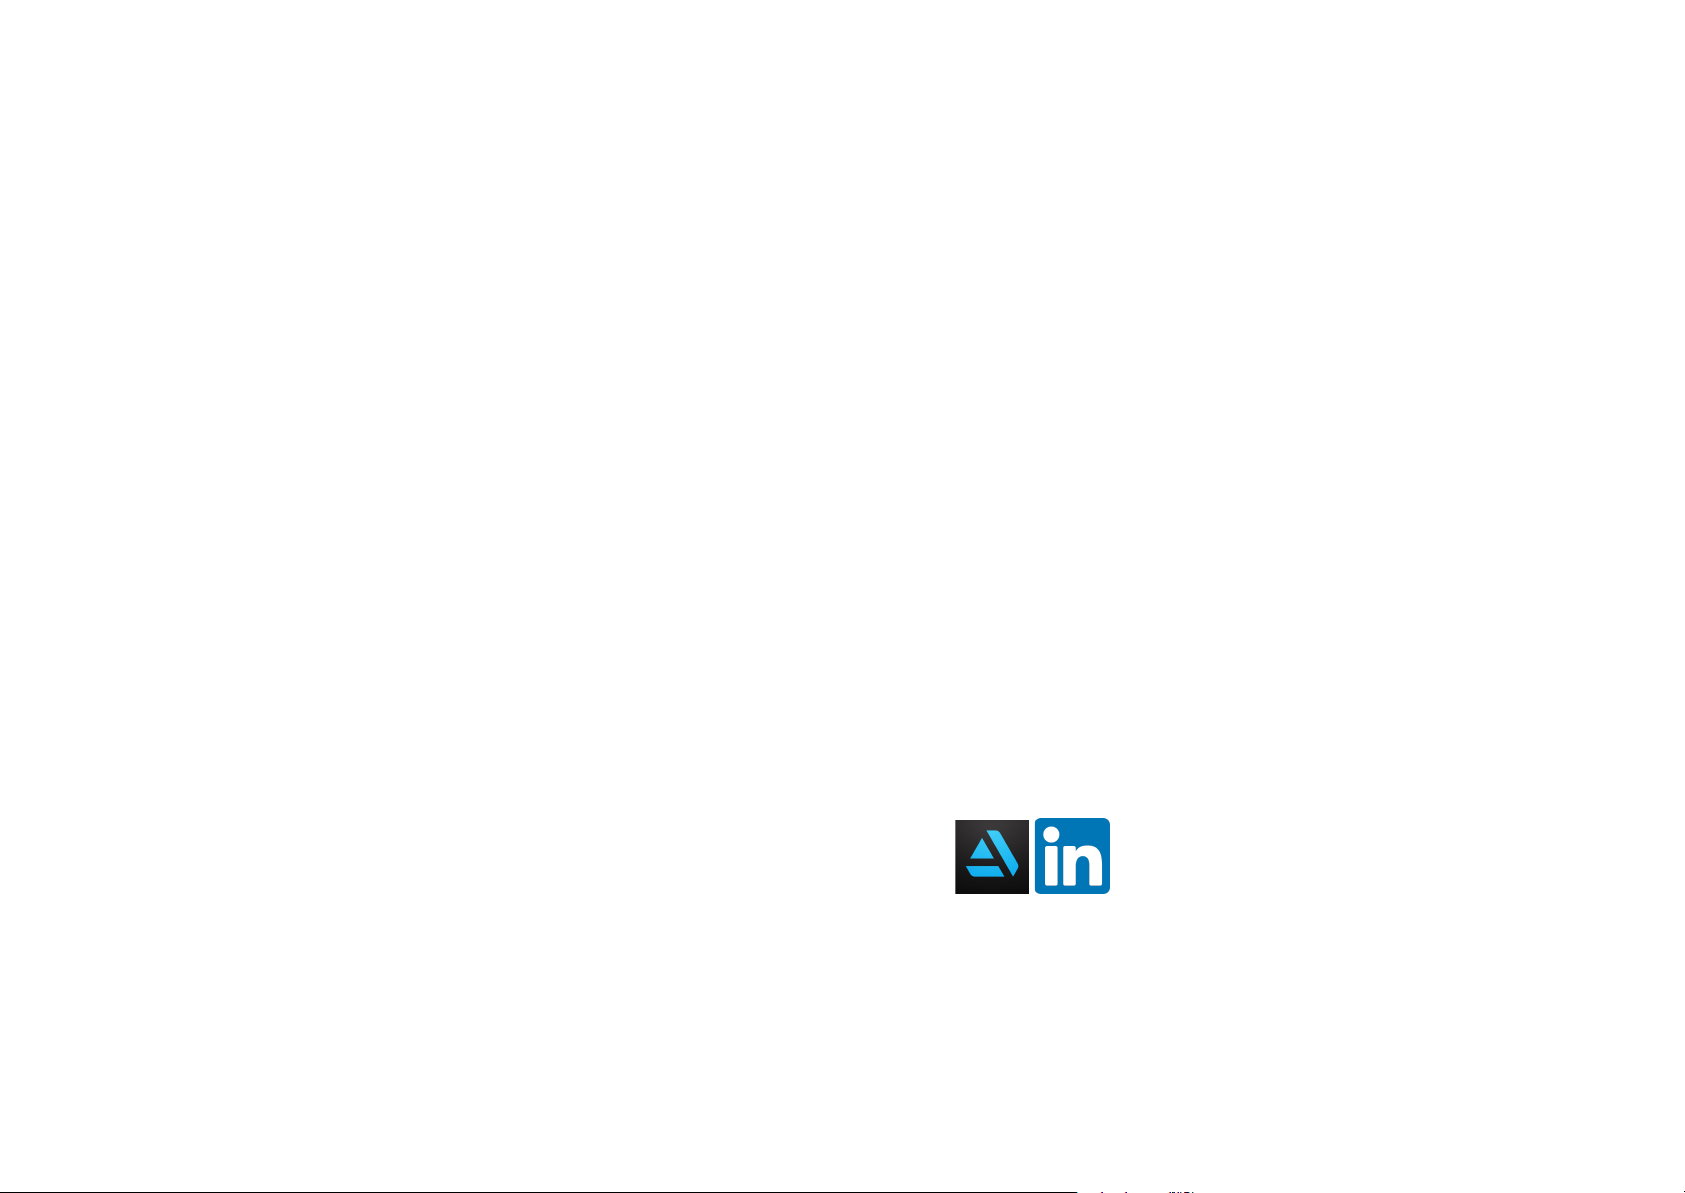
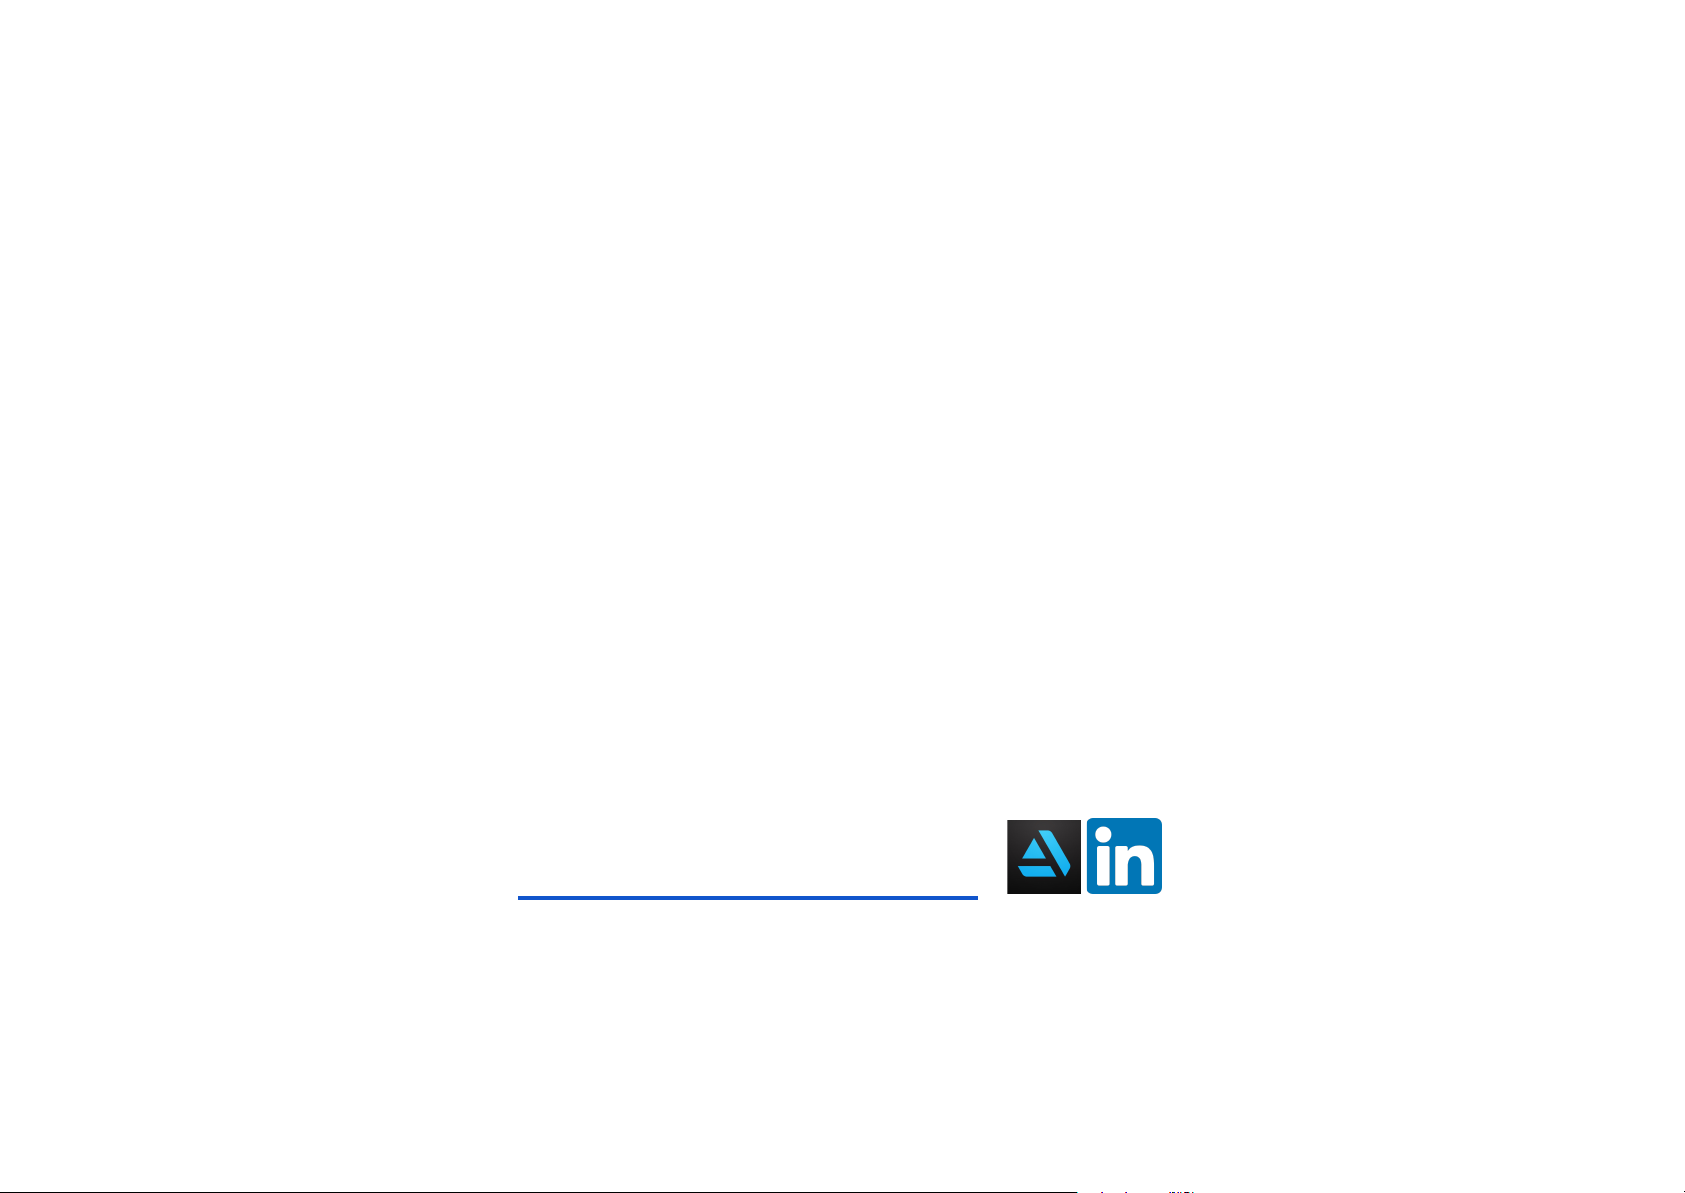
- updated the email address

Changed region(s): [[0.3086, 0.6823, 0.7098, 0.7754]]

diff --git a/index.html b/index.html
@@ -20,10 +20,10 @@
 <style type="text/css">
 .ff0{font-family:sans-serif;visibility:hidden;}
[4 lines of base64/hex data omitted]
-.m0{transform:matrix(0.250000,0.000000,0.000000,0.250000,0,0);-ms-transform:matrix(0.250000,0.000000,0.000000,0.250000,0,0);-webkit-transform:matrix(0.250000,0.000000,0.000000,0.250000,0,0);}
-.m1{transform:none;-ms-transform:none;-webkit-transform:none;}
+.m0{transform:matrix(0.375000,0.000000,0.000000,0.375000,0,0);-ms-transform:matrix(0.375000,0.000000,0.000000,0.375000,0,0);-webkit-transform:matrix(0.375000,0.000000,0.000000,0.375000,0,0);}
+.m1{transform:matrix(1.500000,0.000000,0.000000,1.500000,0,0);-ms-transform:matrix(1.500000,0.000000,0.000000,1.500000,0,0);-webkit-transform:matrix(1.500000,0.000000,0.000000,1.500000,0,0);}
 .v0{vertical-align:0.000000px;}
 .ls0{letter-spacing:0.000000px;}
 .sc_{text-shadow:none;}
@@ -42,46 +42,47 @@
 .fs4{font-size:123.999996px;}
 .fs0{font-size:152.000004px;}
 .fs1{font-size:156.000000px;}
-.y0{bottom:-0.500000px;}
-.y3{bottom:107.764280px;}
-.y9{bottom:149.113279px;}
-.y2{bottom:282.554689px;}
-.y4{bottom:285.985102px;}
-.y6{bottom:295.242672px;}
-.y5{bottom:304.498532px;}
-.y1{bottom:319.119997px;}
-.y8{bottom:358.717282px;}
-.y7{bottom:501.488281px;}
+.y0{bottom:-0.750000px;}
+.y3{bottom:161.646420px;}
+.y9{bottom:223.669919px;}
+.y2{bottom:423.832033px;}
+.y4{bottom:428.977653px;}
+.y6{bottom:442.864008px;}
+.y5{bottom:456.747798px;}
+.y1{bottom:478.679995px;}
+.y8{bottom:538.075923px;}
+.y7{bottom:752.232422px;}
 .h7{height:52.488281px;}
 .h4{height:59.999999px;}
 .h3{height:67.068358px;}
 .h6{height:69.890625px;}
 .h5{height:90.275388px;}
 .h2{height:113.572266px;}
-.h0{height:596.000000px;}
-.h1{height:596.500000px;}
-.w0{width:842.000000px;}
-.w1{width:842.500000px;}
+.h0{height:894.000000px;}
+.h1{height:894.750000px;}
+.w0{width:1263.000000px;}
+.w1{width:1263.750000px;}
 .x0{left:0.000000px;}
-.x6{left:78.750000px;}
-.x3{left:245.837805px;}
-.x8{left:285.496650px;}
-.x1{left:286.572442px;}
-.x4{left:313.298512px;}
-.x7{left:346.897800px;}
-.x5{left:356.379750px;}
-.x2{left:413.260230px;}
+.x7{left:118.125000px;}
+.x3{left:368.756708px;}
+.x9{left:389.208341px;}
+.x1{left:429.858664px;}
+.x4{left:469.947769px;}
+.x6{left:471.184931px;}
+.x8{left:520.346700px;}
+.x5{left:534.569625px;}
+.x2{left:619.890345px;}
 @media print{
 .v0{vertical-align:0.000000pt;}
 .ls0{letter-spacing:0.000000pt;}
 .ws0{word-spacing:0.000000pt;}
-.fs6{font-size:96.000000pt;}
-.fs3{font-size:106.666664pt;}
-.fs2{font-size:122.666664pt;}
-.fs5{font-size:128.000000pt;}
-.fs4{font-size:165.333328pt;}
-.fs0{font-size:202.666672pt;}
-.fs1{font-size:208.000000pt;}
+.fs6{font-size:64.000000pt;}
+.fs3{font-size:71.111109pt;}
+.fs2{font-size:81.777776pt;}
+.fs5{font-size:85.333333pt;}
+.fs4{font-size:110.222219pt;}
+.fs0{font-size:135.111115pt;}
+.fs1{font-size:138.666667pt;}
 .y0{bottom:-0.666667pt;}
 .y3{bottom:143.685707pt;}
 .y9{bottom:198.817706pt;}
@@ -92,23 +93,24 @@
 .y1{bottom:425.493329pt;}
 .y8{bottom:478.289710pt;}
 .y7{bottom:668.651042pt;}
-.h7{height:69.984375pt;}
-.h4{height:79.999998pt;}
-.h3{height:89.424477pt;}
-.h6{height:93.187500pt;}
-.h5{height:120.367184pt;}
-.h2{height:151.429688pt;}
+.h7{height:46.656250pt;}
+.h4{height:53.333332pt;}
+.h3{height:59.616318pt;}
+.h6{height:62.125000pt;}
+.h5{height:80.244789pt;}
+.h2{height:100.953125pt;}
 .h0{height:794.666667pt;}
 .h1{height:795.333333pt;}
 .w0{width:1122.666667pt;}
 .w1{width:1123.333333pt;}
 .x0{left:0.000000pt;}
-.x6{left:105.000000pt;}
+.x7{left:105.000000pt;}
 .x3{left:327.783740pt;}
-.x8{left:380.662200pt;}
+.x9{left:345.962970pt;}
 .x1{left:382.096590pt;}
 .x4{left:417.731350pt;}
-.x7{left:462.530400pt;}
+.x6{left:418.831050pt;}
+.x8{left:462.530400pt;}
 .x5{left:475.173000pt;}
 .x2{left:551.013640pt;}
 }
@@ -164,24 +166,24 @@ pdf2htmlEX.defaultViewer = new pdf2htmlEX.Viewer({});
 </div>
 </div>
 <div id="page-container">
-<div id="pf1" class="pf w0 h0" data-page-no="1"><div class="pc pc1 w0 h0"><img class="bi x0 y0 w1 h1" alt="" src="bg1.png"/><div class="t m0 x1 h2 y1 ff1 fs0 fc0 sc0 ls0 ws0">Marina G<span class="fs1">ridina</span></div><div class="t m0 x2 h3 y2 ff2 fs2 fc0 sc0 ls0 ws0">concept artist</div><div class="t m0 x3 h4 y3 ff3 fs3 fc1 sc0 ls0 ws0">marina.o.gridina@gmail.com</div><a class="l" href="mailto:marina.o.gridina@gmail.com"><div class="d m1" style="border-style:none;position:absolute;left:245.837800px;bottom:102.678345px;width:256.628230px;height:44.085937px;background-color:rgba(255,255,255,0.000001);"></div></a><a class="l" href="https://marinagridina.artstation.com/"><div class="d m1" style="border-style:none;position:absolute;left:515.802000px;bottom:102.678345px;width:39.750000px;height:44.085937px;background-color:rgba(255,255,255,0.000001);"></div></a><a class="l" href="https://www.linkedin.com/in/marina-gridina-0550a2126/"><div class="d m1" style="border-style:none;position:absolute;left:555.552000px;bottom:102.678345px;width:40.500000px;height:44.085937px;background-color:rgba(255,255,255,0.000001);"></div></a></div><div class="pi" data-data='{"ctm":[1.000000,0.000000,0.000000,1.000000,0.000000,0.000000]}'></div></div>
-<div id="pf2" class="pf w0 h0" data-page-no="2"><div class="pc pc2 w0 h0"><img class="bi x0 y0 w1 h1" alt="" src="bg2.png"/><div class="t m0 x4 h5 y4 ff1 fs4 fc0 sc0 ls0 ws0">Photorealistic:</div></div><div class="pi" data-data='{"ctm":[1.000000,0.000000,0.000000,1.000000,0.000000,0.000000]}'></div></div>
-<div id="pf3" class="pf w0 h0" data-page-no="3"><div class="pc pc3 w0 h0"><img class="bi x0 y0 w1 h1" alt="" src="bg3.png"/></div><div class="pi" data-data='{"ctm":[1.000000,0.000000,0.000000,1.000000,0.000000,0.000000]}'></div></div>
-<div id="pf4" class="pf w0 h0" data-page-no="4"><div class="pc pc4 w0 h0"><img class="bi x0 y0 w1 h1" alt="" src="bg4.png"/></div><div class="pi" data-data='{"ctm":[1.000000,0.000000,0.000000,1.000000,0.000000,0.000000]}'></div></div>
-<div id="pf5" class="pf w0 h0" data-page-no="5"><div class="pc pc5 w0 h0"><img class="bi x0 y0 w1 h1" alt="" src="bg5.png"/></div><div class="pi" data-data='{"ctm":[1.000000,0.000000,0.000000,1.000000,0.000000,0.000000]}'></div></div>
-<div id="pf6" class="pf w0 h0" data-page-no="6"><div class="pc pc6 w0 h0"><img class="bi x0 y0 w1 h1" alt="" src="bg6.png"/></div><div class="pi" data-data='{"ctm":[1.000000,0.000000,0.000000,1.000000,0.000000,0.000000]}'></div></div>
-<div id="pf7" class="pf w0 h0" data-page-no="7"><div class="pc pc7 w0 h0"><img class="bi x0 y0 w1 h1" alt="" src="bg7.png"/><div class="t m0 x5 h5 y5 ff1 fs4 fc0 sc0 ls0 ws0">Cartoon:</div></div><div class="pi" data-data='{"ctm":[1.000000,0.000000,0.000000,1.000000,0.000000,0.000000]}'></div></div>
-<div id="pf8" class="pf w0 h0" data-page-no="8"><div class="pc pc8 w0 h0"><img class="bi x0 y0 w1 h1" alt="" src="bg8.png"/></div><div class="pi" data-data='{"ctm":[1.000000,0.000000,0.000000,1.000000,0.000000,0.000000]}'></div></div>
-<div id="pf9" class="pf w0 h0" data-page-no="9"><div class="pc pc9 w0 h0"><img class="bi x0 y0 w1 h1" alt="" src="bg9.png"/></div><div class="pi" data-data='{"ctm":[1.000000,0.000000,0.000000,1.000000,0.000000,0.000000]}'></div></div>
-<div id="pfa" class="pf w0 h0" data-page-no="a"><div class="pc pca w0 h0"><img class="bi x0 y0 w1 h1" alt="" src="bga.png"/></div><div class="pi" data-data='{"ctm":[1.000000,0.000000,0.000000,1.000000,0.000000,0.000000]}'></div></div>
-<div id="pfb" class="pf w0 h0" data-page-no="b"><div class="pc pcb w0 h0"><img class="bi x0 y0 w1 h1" alt="" src="bgb.png"/></div><div class="pi" data-data='{"ctm":[1.000000,0.000000,0.000000,1.000000,0.000000,0.000000]}'></div></div>
-<div id="pfc" class="pf w0 h0" data-page-no="c"><div class="pc pcc w0 h0"><img class="bi x0 y0 w1 h1" alt="" src="bgc.png"/></div><div class="pi" data-data='{"ctm":[1.000000,0.000000,0.000000,1.000000,0.000000,0.000000]}'></div></div>
-<div id="pfd" class="pf w0 h0" data-page-no="d"><div class="pc pcd w0 h0"><img class="bi x0 y0 w1 h1" alt="" src="bgd.png"/></div><div class="pi" data-data='{"ctm":[1.000000,0.000000,0.000000,1.000000,0.000000,0.000000]}'></div></div>
-<div id="pfe" class="pf w0 h0" data-page-no="e"><div class="pc pce w0 h0"><img class="bi x0 y0 w1 h1" alt="" src="bge.png"/></div><div class="pi" data-data='{"ctm":[1.000000,0.000000,0.000000,1.000000,0.000000,0.000000]}'></div></div>
-<div id="pff" class="pf w0 h0" data-page-no="f"><div class="pc pcf w0 h0"><img class="bi x0 y0 w1 h1" alt="" src="bgf.png"/><div class="t m0 x4 h5 y6 ff1 fs4 fc0 sc0 ls0 ws0">Matte painting:</div></div><div class="pi" data-data='{"ctm":[1.000000,0.000000,0.000000,1.000000,0.000000,0.000000]}'></div></div>
-<div id="pf10" class="pf w0 h0" data-page-no="10"><div class="pc pc10 w0 h0"><img class="bi x0 y0 w1 h1" alt="" src="bg10.png"/><div class="t m0 x6 h6 y7 ff1 fs5 fc0 sc0 ls0 ws0">Before:</div></div><div class="pi" data-data='{"ctm":[1.000000,0.000000,0.000000,1.000000,0.000000,0.000000]}'></div></div>
-<div id="pf11" class="pf w0 h0" data-page-no="11"><div class="pc pc11 w0 h0"><img class="bi x0 y0 w1 h1" alt="" src="bg11.png"/><div class="t m0 x6 h6 y7 ff1 fs5 fc0 sc0 ls0 ws0">After:</div></div><div class="pi" data-data='{"ctm":[1.000000,0.000000,0.000000,1.000000,0.000000,0.000000]}'></div></div>
-<div id="pf12" class="pf w0 h0" data-page-no="12"><div class="pc pc12 w0 h0"><img class="bi x0 y0 w1 h1" alt="" src="bg12.png"/><div class="t m0 x7 h5 y8 ff1 fs4 fc0 sc0 ls0 ws0">Thank you!</div><div class="t m0 x8 h7 y9 ff2 fs6 fc0 sc0 ls0 ws0">allisssska@gmail.com</div><a class="l" href="mailto:allisssska@gmail.com"><div class="d m1" style="border-style:none;position:absolute;left:285.496640px;bottom:144.027344px;width:177.310580px;height:44.085936px;background-color:rgba(255,255,255,0.000001);"></div></a><a class="l" href="https://marinagridina.artstation.com/"><div class="d m1" style="border-style:none;position:absolute;left:476.143130px;bottom:144.027344px;width:39.750000px;height:44.085936px;background-color:rgba(255,255,255,0.000001);"></div></a><a class="l" href="https://www.linkedin.com/in/marina-gridina-0550a2126/"><div class="d m1" style="border-style:none;position:absolute;left:515.893130px;bottom:144.027344px;width:40.500000px;height:44.085936px;background-color:rgba(255,255,255,0.000001);"></div></a></div><div class="pi" data-data='{"ctm":[1.000000,0.000000,0.000000,1.000000,0.000000,0.000000]}'></div></div>
+<div id="pf1" class="pf w0 h0" data-page-no="1"><div class="pc pc1 w0 h0"><img class="bi x0 y0 w1 h1" alt="" src="bg1.png"/><div class="t m0 x1 h2 y1 ff1 fs0 fc0 sc0 ls0 ws0">Marina G<span class="fs1">ridina</span></div><div class="t m0 x2 h3 y2 ff2 fs2 fc0 sc0 ls0 ws0">concept artist</div><div class="t m0 x3 h4 y3 ff3 fs3 fc1 sc0 ls0 ws0">marina.o.gridina@gmail.com</div><a class="l" href="mailto:marina.o.gridina@gmail.com"><div class="d m1" style="border-style:none;position:absolute;left:368.756700px;bottom:154.017517px;width:256.628230px;height:44.085937px;background-color:rgba(255,255,255,0.000001);"></div></a><a class="l" href="https://marinagridina.artstation.com/"><div class="d m1" style="border-style:none;position:absolute;left:773.703000px;bottom:154.017517px;width:39.750000px;height:44.085937px;background-color:rgba(255,255,255,0.000001);"></div></a><a class="l" href="https://www.linkedin.com/in/marina-gridina-0550a2126/"><div class="d m1" style="border-style:none;position:absolute;left:833.328000px;bottom:154.017517px;width:40.500000px;height:44.085937px;background-color:rgba(255,255,255,0.000001);"></div></a></div><div class="pi" data-data='{"ctm":[1.500000,0.000000,0.000000,1.500000,0.000000,0.000000]}'></div></div>
+<div id="pf2" class="pf w0 h0" data-page-no="2"><div class="pc pc2 w0 h0"><img class="bi x0 y0 w1 h1" alt="" src="bg2.png"/><div class="t m0 x4 h5 y4 ff1 fs4 fc0 sc0 ls0 ws0">Photorealistic:</div></div><div class="pi" data-data='{"ctm":[1.500000,0.000000,0.000000,1.500000,0.000000,0.000000]}'></div></div>
+<div id="pf3" class="pf w0 h0" data-page-no="3"><div class="pc pc3 w0 h0"><img class="bi x0 y0 w1 h1" alt="" src="bg3.png"/></div><div class="pi" data-data='{"ctm":[1.500000,0.000000,0.000000,1.500000,0.000000,0.000000]}'></div></div>
+<div id="pf4" class="pf w0 h0" data-page-no="4"><div class="pc pc4 w0 h0"><img class="bi x0 y0 w1 h1" alt="" src="bg4.png"/></div><div class="pi" data-data='{"ctm":[1.500000,0.000000,0.000000,1.500000,0.000000,0.000000]}'></div></div>
+<div id="pf5" class="pf w0 h0" data-page-no="5"><div class="pc pc5 w0 h0"><img class="bi x0 y0 w1 h1" alt="" src="bg5.png"/></div><div class="pi" data-data='{"ctm":[1.500000,0.000000,0.000000,1.500000,0.000000,0.000000]}'></div></div>
+<div id="pf6" class="pf w0 h0" data-page-no="6"><div class="pc pc6 w0 h0"><img class="bi x0 y0 w1 h1" alt="" src="bg6.png"/></div><div class="pi" data-data='{"ctm":[1.500000,0.000000,0.000000,1.500000,0.000000,0.000000]}'></div></div>
+<div id="pf7" class="pf w0 h0" data-page-no="7"><div class="pc pc7 w0 h0"><img class="bi x0 y0 w1 h1" alt="" src="bg7.png"/><div class="t m0 x5 h5 y5 ff1 fs4 fc0 sc0 ls0 ws0">Cartoon:</div></div><div class="pi" data-data='{"ctm":[1.500000,0.000000,0.000000,1.500000,0.000000,0.000000]}'></div></div>
+<div id="pf8" class="pf w0 h0" data-page-no="8"><div class="pc pc8 w0 h0"><img class="bi x0 y0 w1 h1" alt="" src="bg8.png"/></div><div class="pi" data-data='{"ctm":[1.500000,0.000000,0.000000,1.500000,0.000000,0.000000]}'></div></div>
+<div id="pf9" class="pf w0 h0" data-page-no="9"><div class="pc pc9 w0 h0"><img class="bi x0 y0 w1 h1" alt="" src="bg9.png"/></div><div class="pi" data-data='{"ctm":[1.500000,0.000000,0.000000,1.500000,0.000000,0.000000]}'></div></div>
+<div id="pfa" class="pf w0 h0" data-page-no="a"><div class="pc pca w0 h0"><img class="bi x0 y0 w1 h1" alt="" src="bga.png"/></div><div class="pi" data-data='{"ctm":[1.500000,0.000000,0.000000,1.500000,0.000000,0.000000]}'></div></div>
+<div id="pfb" class="pf w0 h0" data-page-no="b"><div class="pc pcb w0 h0"><img class="bi x0 y0 w1 h1" alt="" src="bgb.png"/></div><div class="pi" data-data='{"ctm":[1.500000,0.000000,0.000000,1.500000,0.000000,0.000000]}'></div></div>
+<div id="pfc" class="pf w0 h0" data-page-no="c"><div class="pc pcc w0 h0"><img class="bi x0 y0 w1 h1" alt="" src="bgc.png"/></div><div class="pi" data-data='{"ctm":[1.500000,0.000000,0.000000,1.500000,0.000000,0.000000]}'></div></div>
+<div id="pfd" class="pf w0 h0" data-page-no="d"><div class="pc pcd w0 h0"><img class="bi x0 y0 w1 h1" alt="" src="bgd.png"/></div><div class="pi" data-data='{"ctm":[1.500000,0.000000,0.000000,1.500000,0.000000,0.000000]}'></div></div>
+<div id="pfe" class="pf w0 h0" data-page-no="e"><div class="pc pce w0 h0"><img class="bi x0 y0 w1 h1" alt="" src="bge.png"/></div><div class="pi" data-data='{"ctm":[1.500000,0.000000,0.000000,1.500000,0.000000,0.000000]}'></div></div>
+<div id="pff" class="pf w0 h0" data-page-no="f"><div class="pc pcf w0 h0"><img class="bi x0 y0 w1 h1" alt="" src="bgf.png"/><div class="t m0 x6 h5 y6 ff1 fs4 fc0 sc0 ls0 ws0">Matte painting:</div></div><div class="pi" data-data='{"ctm":[1.500000,0.000000,0.000000,1.500000,0.000000,0.000000]}'></div></div>
+<div id="pf10" class="pf w0 h0" data-page-no="10"><div class="pc pc10 w0 h0"><img class="bi x0 y0 w1 h1" alt="" src="bg10.png"/><div class="t m0 x7 h6 y7 ff1 fs5 fc0 sc0 ls0 ws0">Before:</div></div><div class="pi" data-data='{"ctm":[1.500000,0.000000,0.000000,1.500000,0.000000,0.000000]}'></div></div>
+<div id="pf11" class="pf w0 h0" data-page-no="11"><div class="pc pc11 w0 h0"><img class="bi x0 y0 w1 h1" alt="" src="bg11.png"/><div class="t m0 x7 h6 y7 ff1 fs5 fc0 sc0 ls0 ws0">After:</div></div><div class="pi" data-data='{"ctm":[1.500000,0.000000,0.000000,1.500000,0.000000,0.000000]}'></div></div>
+<div id="pf12" class="pf w0 h0" data-page-no="12"><div class="pc pc12 w0 h0"><img class="bi x0 y0 w1 h1" alt="" src="bg12.png"/><div class="t m0 x8 h5 y8 ff1 fs4 fc0 sc0 ls0 ws0">Thank you!</div><div class="t m0 x9 h7 y9 ff2 fs6 fc1 sc0 ls0 ws0">marina.o.gridina@gmail.com</div><a class="l" href="mailto:marina.o.gridina@gmail.com"><div class="d m1" style="border-style:none;position:absolute;left:389.208345px;bottom:216.041016px;width:229.359370px;height:44.085936px;background-color:rgba(255,255,255,0.000001);"></div></a><a class="l" href="https://marinagridina.artstation.com/"><div class="d m1" style="border-style:none;position:absolute;left:753.251310px;bottom:216.041016px;width:39.750000px;height:44.085936px;background-color:rgba(255,255,255,0.000001);"></div></a><a class="l" href="https://www.linkedin.com/in/marina-gridina-0550a2126/"><div class="d m1" style="border-style:none;position:absolute;left:812.876310px;bottom:216.041016px;width:40.500000px;height:44.085936px;background-color:rgba(255,255,255,0.000001);"></div></a></div><div class="pi" data-data='{"ctm":[1.500000,0.000000,0.000000,1.500000,0.000000,0.000000]}'></div></div>
 </div>
 <div class="loading-indicator">
 <img alt="" src="pdf2htmlEX-64x64.png"/>
